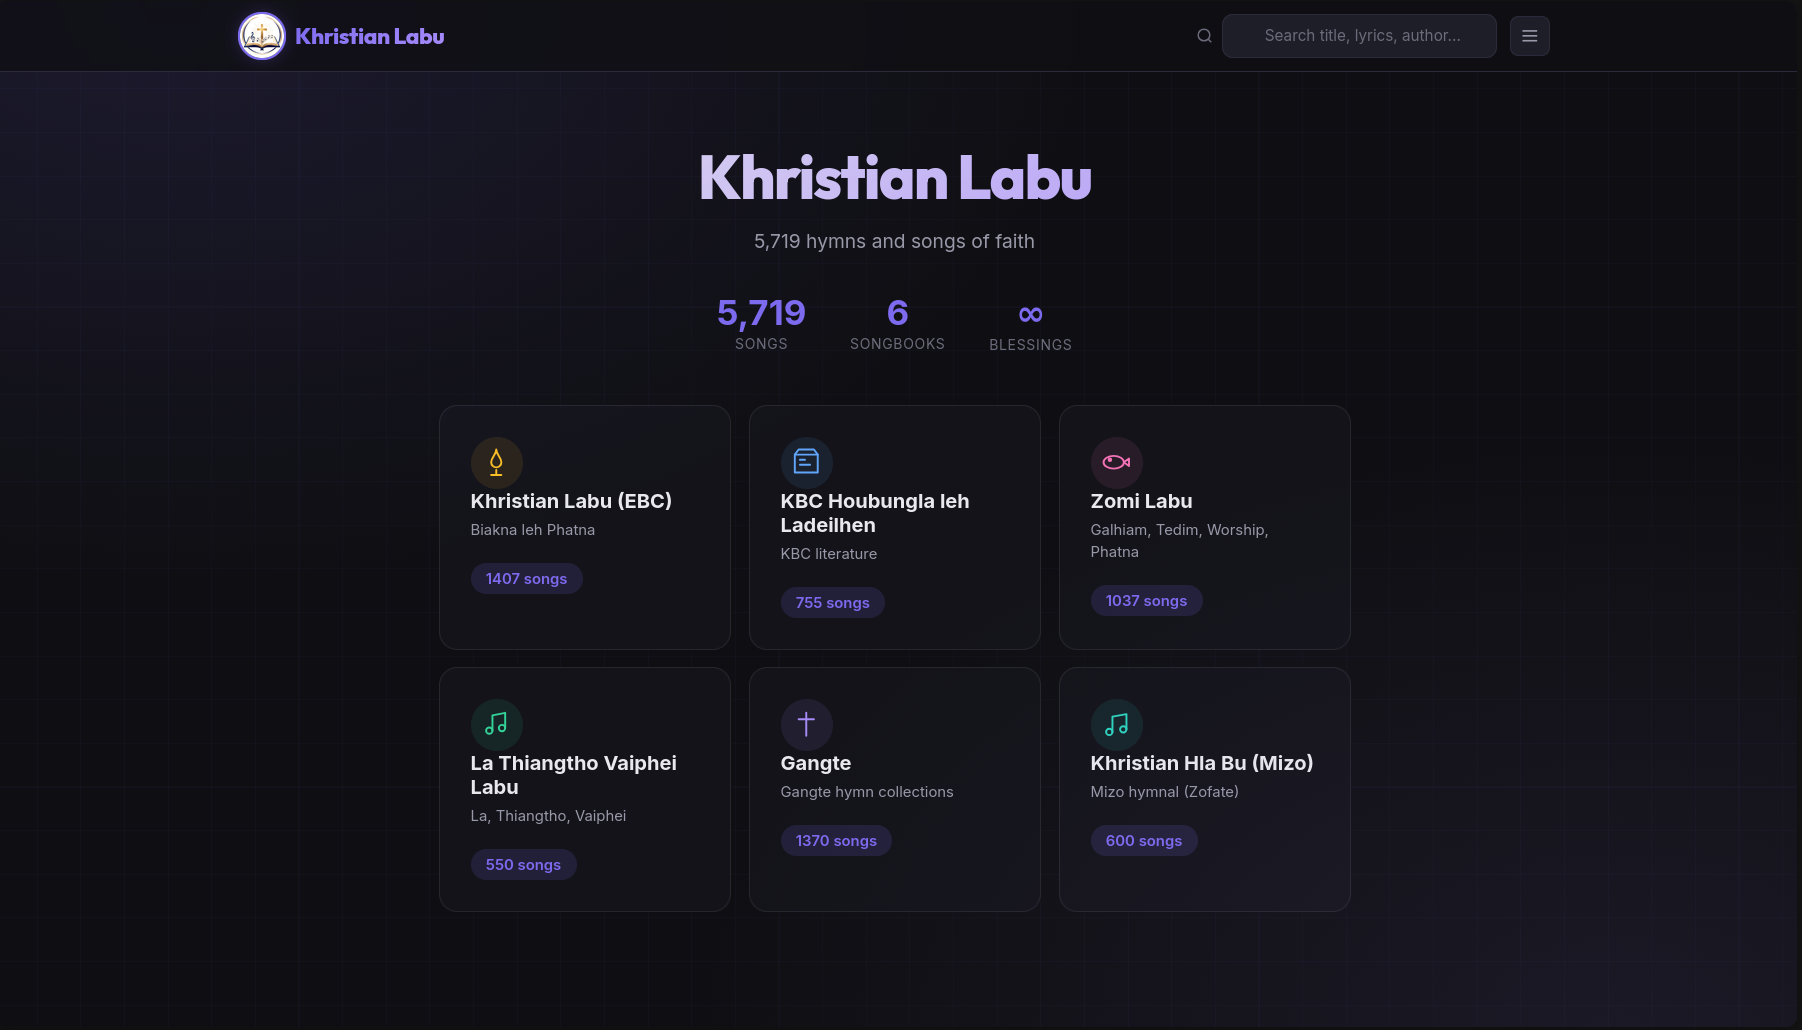
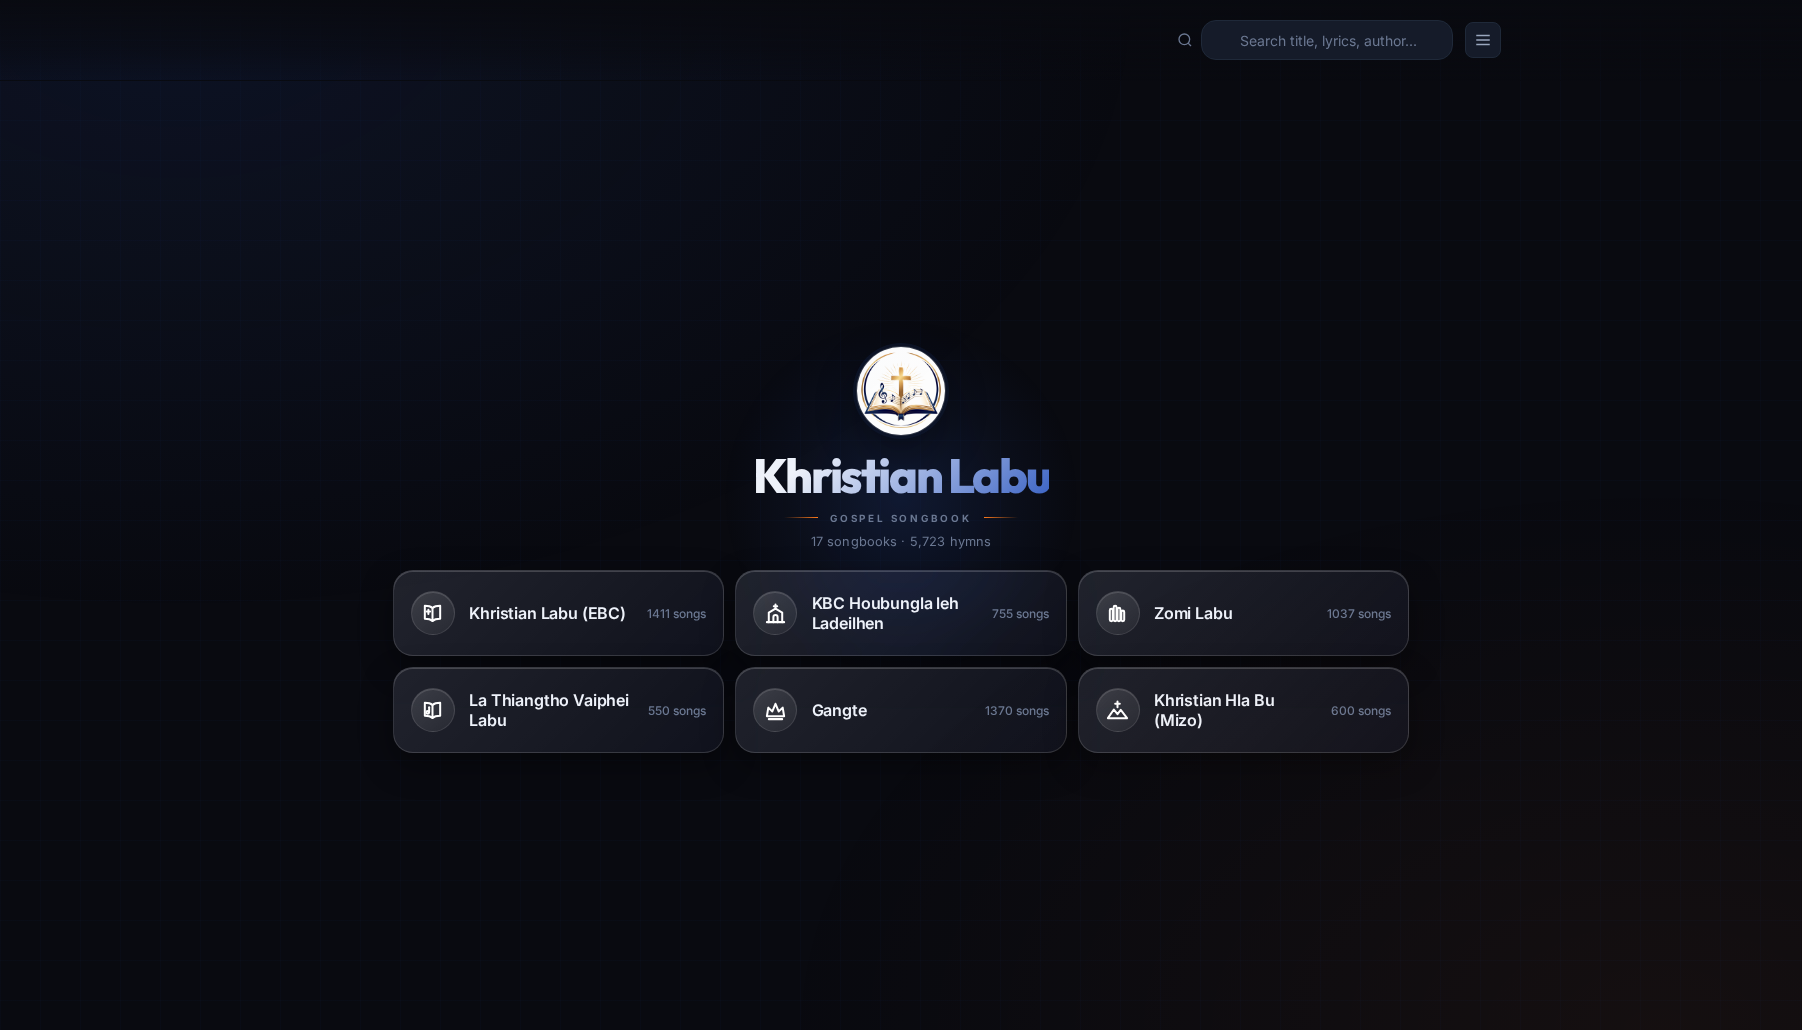
docs: refresh README screenshots and trim README
Capture the current desktop and Android start pages and shorten the
README to the essentials.

🤖 Generated with Codebuff

diff --git a/README.md b/README.md
@@ -1,81 +1,65 @@
 # Khristian Labu
 
-A gospel songbook app — 5,719 hymns across 17 songbooks in 6 collections.
+A gospel songbook app — 5,723 hymns across 17 songbooks in 6 collections.
 
-Try it live: [minatolun-dotcom.github.io/khristian-labu](https://minatolun-dotcom.github.io/khristian-labu/)
+[Try it live](https://minatolun-dotcom.github.io/khristian-labu/) · [Download the APK](https://github.com/minatolun-dotcom/khristian-labu/releases)
 
 ## Screenshots
 
-**Desktop**
-![Desktop](Desktop-Screenshot.png)
+**Web**
 
-**Mobile**
-![Mobile](Mobile-Screenshot.png)
+![Web app](Desktop-Screenshot.png)
+
+**Android**
+
+![Android app](Mobile-Screenshot.png)
 
 ## Features
 
-- **17 songbooks across 6 collections** (Kuki, Zomi, Mizo): Khristian Labu (EBC), KBC, Zomi Labu, Tedim, La Thiangtho Vaiphei, Gangte, Mizo Khristian Labu, and more
-- **Full-text search** — titles, authors, verses, and numbers, with filters, sorts, and recent-search history; search scopes to the open songbook, collection, playlist, favorites, or history list
-- **Favorites & recently viewed** (saved locally)
-- **Playlists** — create, rename, delete; export as JSON or plain text
-- **Reader** — adjustable font size & line spacing, per-song scroll memory, verse jump, swipe between songs
-- **WhatsApp share** — share any lyric as text or as a full-song screenshot (even if it scrolls)
-- **Google Drive backup & restore** (optional sign-in) plus local backup/restore of settings, favorites, recents, playlists, and edits
-- **Works offline** — full corpus cached via service worker + IndexedDB
-- **Update checks** — the app checks for a newer release on start-up and from Settings, then links to the GitHub Releases page
-- Dark/light theme, admin panel for adding/editing/deleting songs, find & replace across all songs
+- 17 songbooks across 6 Kuki, Zomi, and Mizo collections
+- Full-text search of titles, lyrics, authors, and numbers, scoped to the open book, collection, playlist, or list — with filters, sorting, and recent searches
+- Favorites and recently viewed songs, saved on device
+- Playlists with rename, delete, and JSON or text export
+- Reader with font size, line spacing, scroll memory, verse jump, and swipe navigation
+- WhatsApp sharing as text or a full-song image
+- Google Drive backup and restore, plus local backup
+- Offline access to the entire songbook
+- Dark and light themes, plus an admin editor with find and replace
 
-## Download
+## Install
 
-Grab the latest APK from the [Releases](https://github.com/minatolun-dotcom/khristian-labu/releases) page.
-When a new version is out, the app shows a banner (and Settings → Check for update) that takes you
-to the release page to download and install it manually.
+Download the latest APK from [Releases](https://github.com/minatolun-dotcom/khristian-labu/releases).
+To update, install it over the existing app; your data is kept. The app checks `version.json` on
+launch and from Settings → Check for update.
 
 ## Development
 
-All app source lives in a single file — `index.html` (plus `sw.js` for offline caching). No web build step.
+The app is `index.html` and `sw.js` — there is no web build step.
 
 ```bash
-# serve locally (no-store headers + network-only service worker, so edits show up)
-python3 scripts/serve_dev.py 8080
-# open http://localhost:8080
+python3 scripts/serve_dev.py 8080   # http://localhost:8080
 ```
 
-### Releasing a new version
-
-APKs are compiled locally — no GitHub Actions workflow builds or publishes them. A push to `main` only updates the web app (GitHub Pages).
+Build the Android APK:
 
 ```bash
-# 1. bump the version (keep these in sync)
-#    - const APP_VERSION in index.html
-#    - version.json
-#    - CACHE in sw.js
-
-# 2. build locally and copy the APK
 npm run sync
-cd android && ./gradlew assembleDebug --no-daemon && cd ..
-cp android/app/build/outputs/apk/debug/app-debug.apk apk/KhristianLabu-debug.apk
-
-# 3. commit, tag, and push
-git add index.html sw.js version.json # plus any other changed app files
-git commit -m "chore: release v1.5.34"
-git tag v1.5.34
-git push origin main --tags
-
-# 4. publish the release with the local APK
-gh release create v1.5.34 apk/KhristianLabu-debug.apk#khristian-labu.apk --title v1.5.34 --latest
+cd android && ./gradlew assembleDebug --no-daemon
+# android/app/build/outputs/apk/debug/app-debug.apk
 ```
 
-The release asset is the locally compiled `khristian-labu.apk`; installed apps read `version.json` to point users at the latest release.
-
-### Tests
+To release, bump `APP_VERSION` in `index.html`, `version.json`, and `CACHE` in `sw.js`, then:
 
 ```bash
-npm test            # data/corpus validation + full browser E2E suite (68+ checks)
+git tag vX.Y.Z && git push origin main --tags
+gh release create vX.Y.Z android/app/build/outputs/apk/debug/app-debug.apk#khristian-labu.apk --latest
 ```
 
-- `scripts/validate_data.py` — corpus integrity (IDs, verses, groups↔counts, gzip match, no HTML in lyrics)
-- `scripts/e2e_full.mjs` — drives the real UI in headless Chromium (needs `npx playwright install chromium` once)
+## Tests
+
+```bash
+npm test   # corpus validation + full browser E2E
+```
 
 ## License
 
